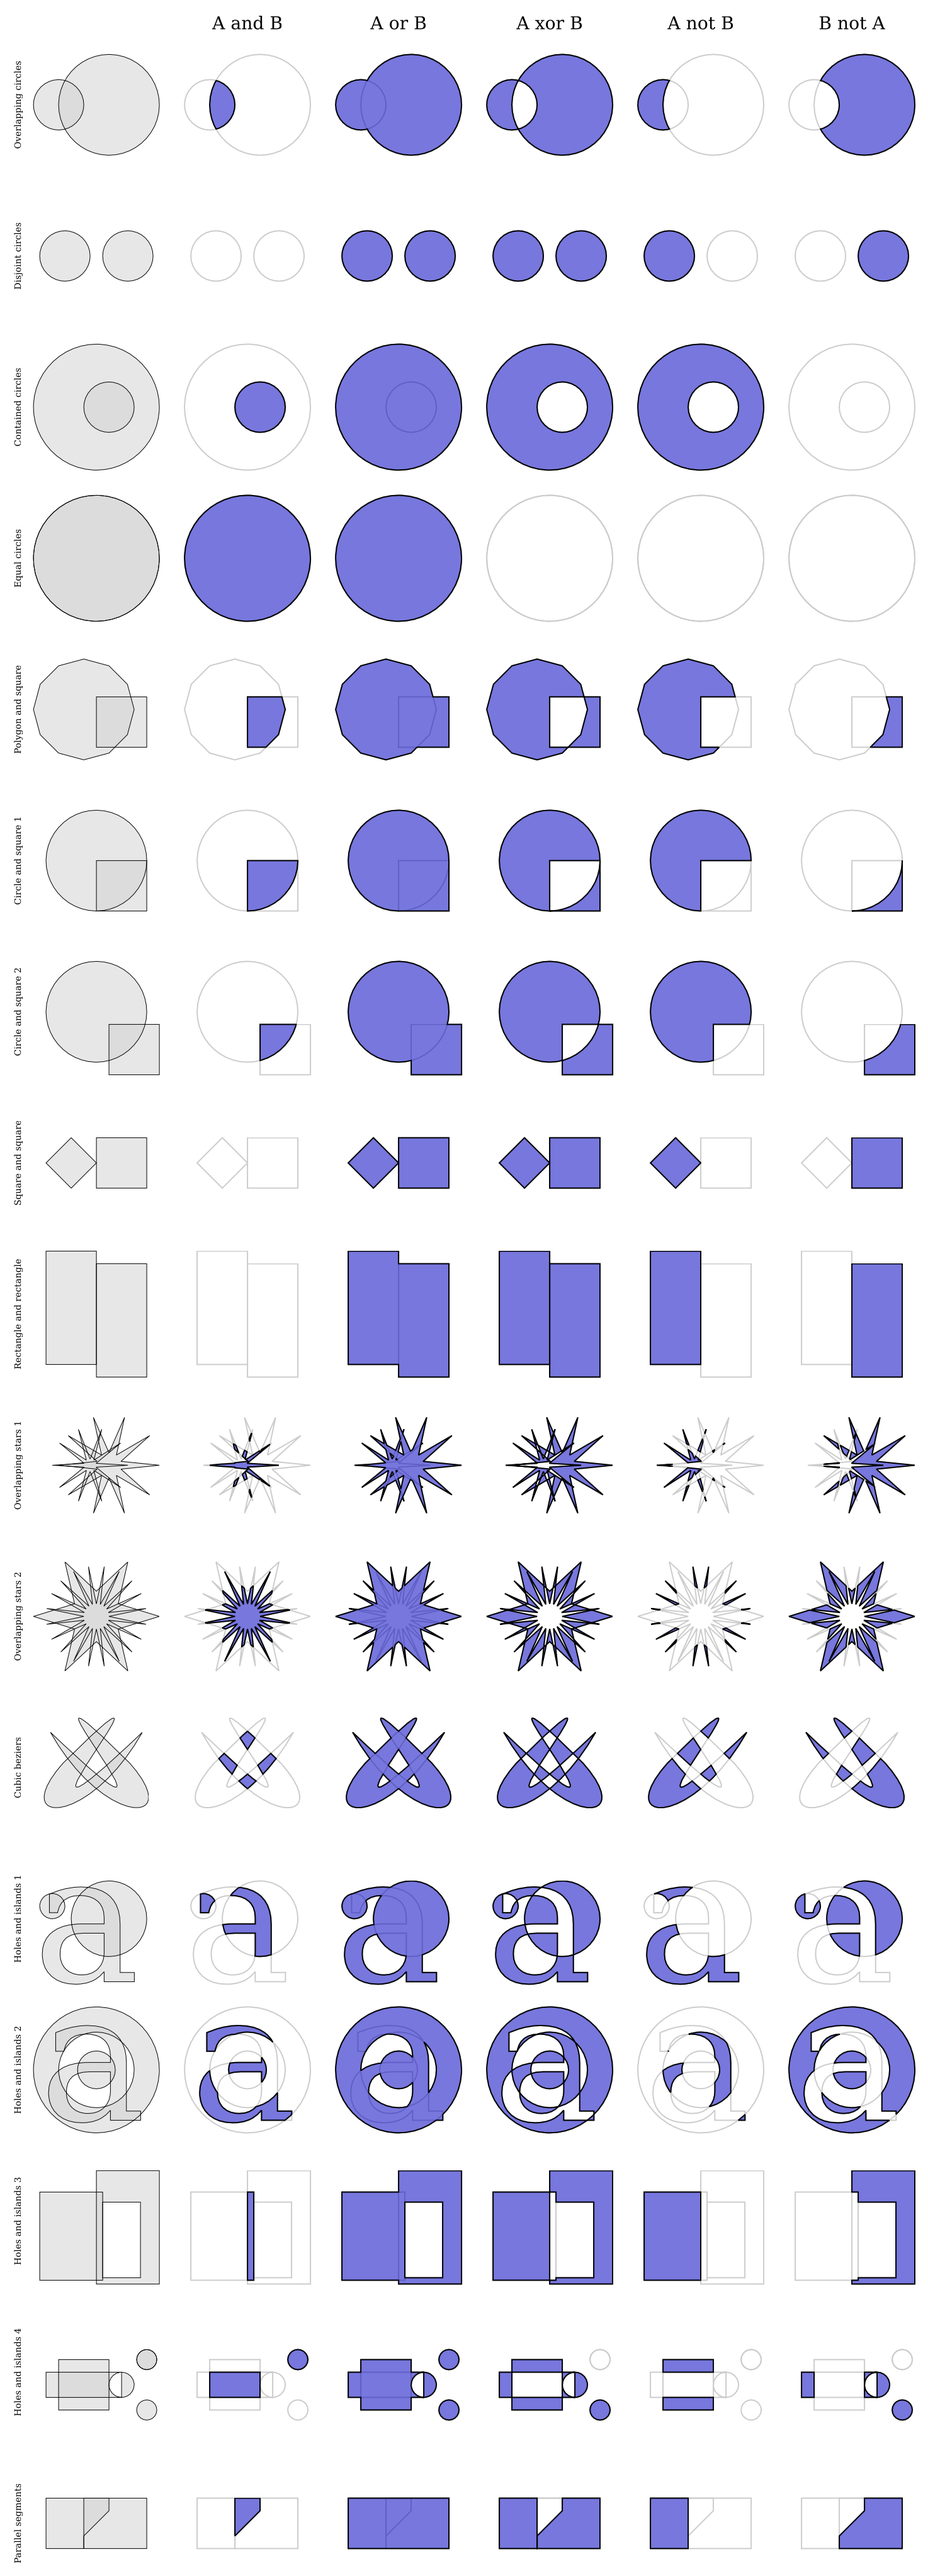
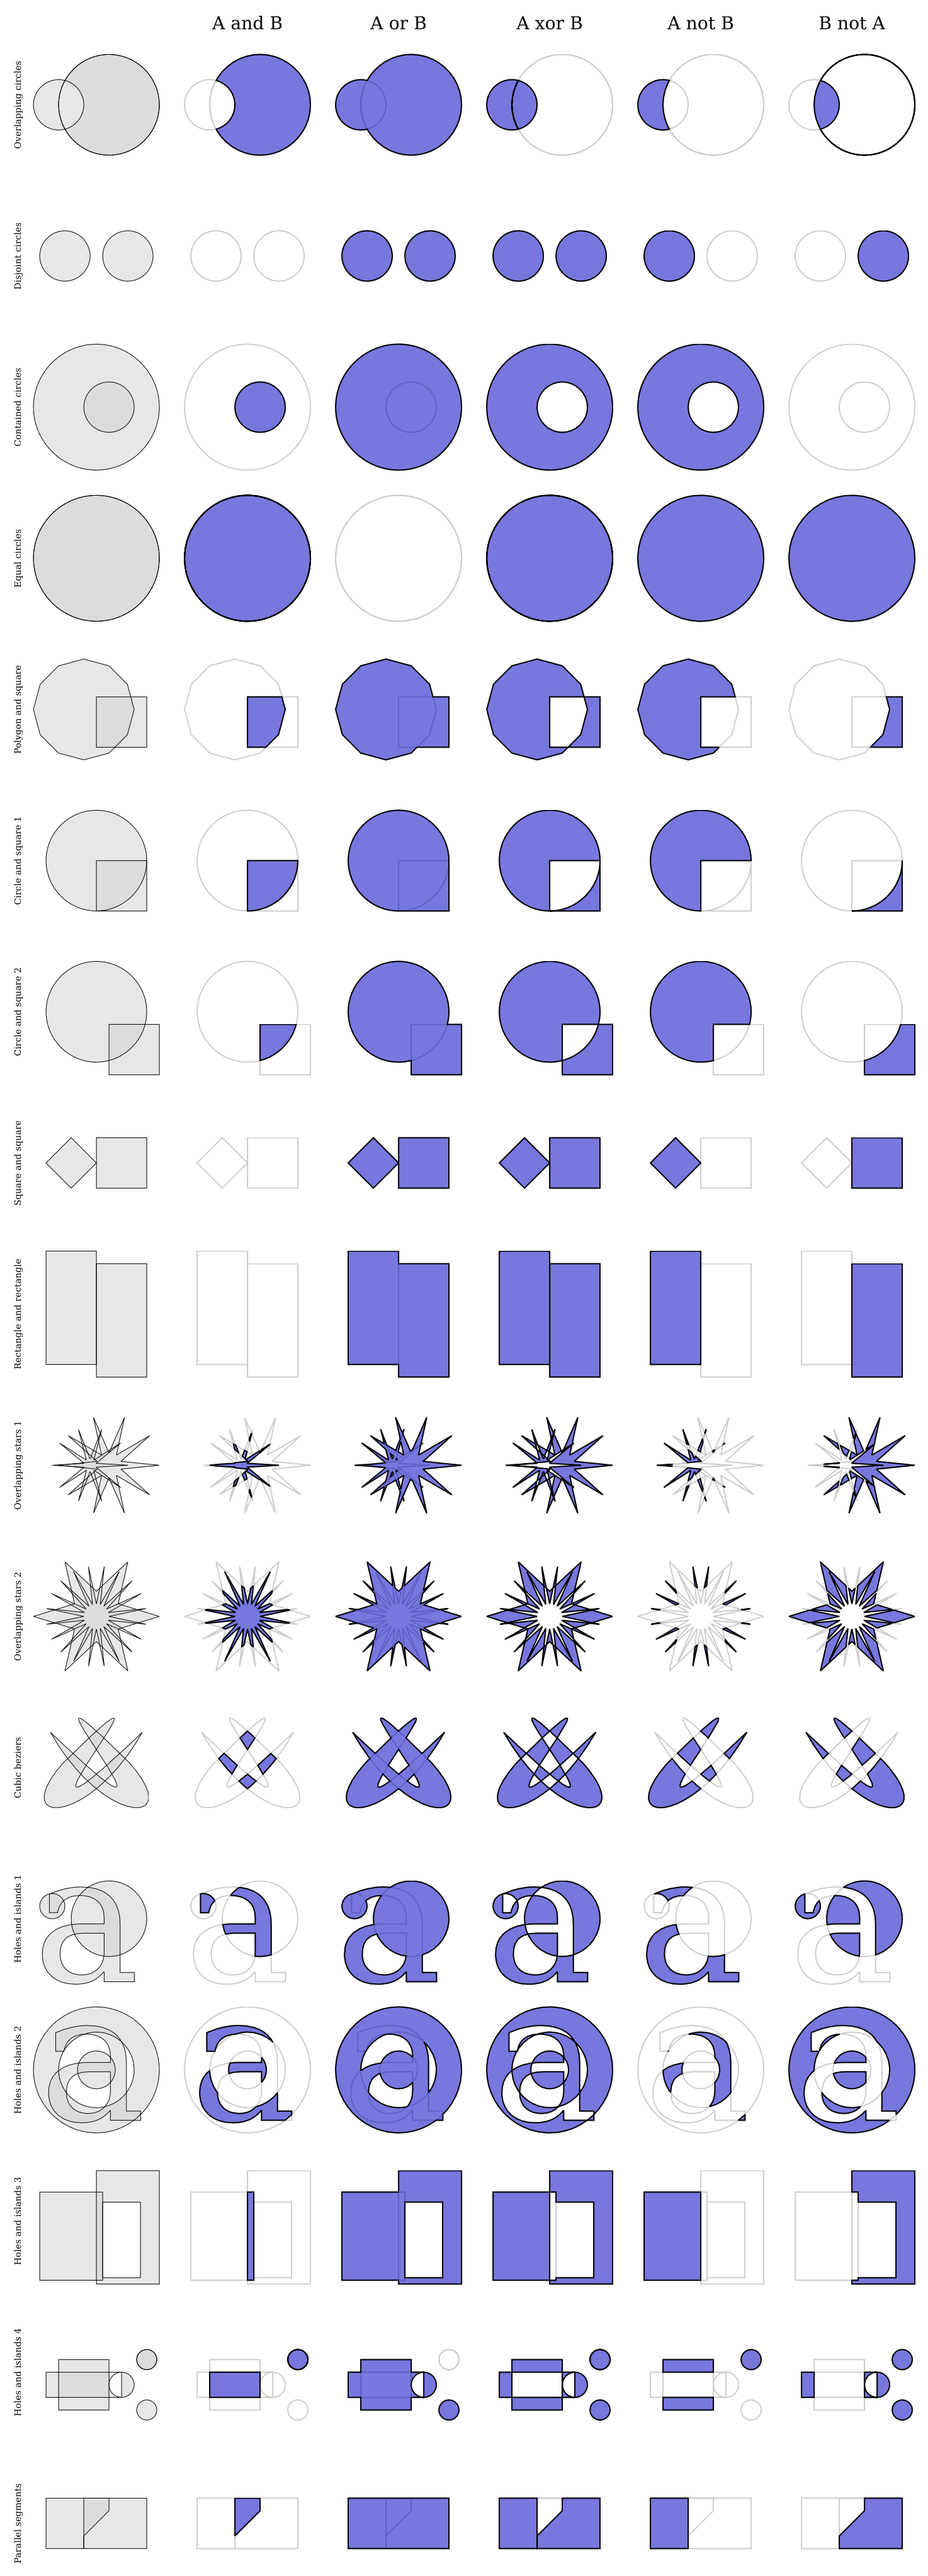
Various fixes for path boolean operations related to intersection sorting

diff --git a/path_intersection.go b/path_intersection.go
@@ -605,7 +605,7 @@ func intersectionNodes(Zs intersections, p, q *Path) []*intersectionNode {
 	}
 
 	// build index map for intersections on Q to P (zs is sorted for P)
-	idxs := Zs.argBSort() // sorted indices for intersections of q by p
+	idxs := Zs.ArgBSort() // sorted indices for intersections of q by p
 
 	// cut path segments for path Q
 	seg = 0      // index into path segments
@@ -957,7 +957,7 @@ func collisions(ps, qs []*Path, keepTangents bool) intersections {
 		}
 		segOffsetA += lenA
 	}
-	zs.Sort()
+	zs.ASort()
 	return zs
 }
 
@@ -1144,10 +1144,6 @@ func (zs intersections) String() string {
 	return sb.String()
 }
 
-func (zs intersections) Sort() {
-	sort.Stable(intersectionSort{zs, 0, 0, 0, 0})
-}
-
 func (zs intersections) SortAndWrapEnd(segOffsetA, segOffsetB, lenA, lenB int) {
 	sort.Stable(intersectionSort{zs, segOffsetA, segOffsetB, lenA, lenB})
 }
@@ -1189,10 +1185,46 @@ func (a intersectionSort) Less(i, j int) bool {
 	// sort by P and secondary to Q. Consider a point at the very end of the curve (seg=len-1, t=1) as if it were at the beginning, since it is on the starting point of the path
 	posai, posbi := a.pos(a.zs[i])
 	posaj, posbj := a.pos(a.zs[j])
-	if posai == posaj {
+	if Equal(posai, posaj) {
 		return posbi < posbj
 	}
 	return posai < posaj
+}
+
+// sort indices of intersections for curve A
+type intersectionASort struct {
+	zs intersections
+}
+
+func (a intersectionASort) Len() int {
+	return len(a.zs)
+}
+
+func (a intersectionASort) Swap(i, j int) {
+	a.zs[i], a.zs[j] = a.zs[j], a.zs[i]
+}
+
+func (a intersectionASort) Less(i, j int) bool {
+	zi, zj := a.zs[i], a.zs[j]
+	if zi.SegA == zj.SegA {
+		if Equal(zi.TA, zj.TA) {
+			// A intersects B twice at the same point, sort in case of parallel parts
+			// TODO: is this valid?? make sure that sorting is consistent to match with order when intersections are slightly separated. That is, you have outer and inner intersection pairs related to the parallel parts in between, that should be sorted as such (outer incoming, inner incoming, inner outgoing, outer outgoing) over A
+			if zi.Kind&BintoA != 0 {
+				return true
+			}
+			return false
+		}
+		return zi.TA < zj.TA
+	}
+	return zi.SegA < zj.SegA
+}
+func (zs intersections) Sort() {
+	sort.Stable(intersectionSort{zs, 0, 0, 0, 0})
+}
+
+func (zs intersections) ASort() {
+	sort.Stable(intersectionASort{zs})
 }
 
 // sort indices of intersections for curve B
@@ -1210,14 +1242,23 @@ func (a intersectionArgBSort) Swap(i, j int) {
 }
 
 func (a intersectionArgBSort) Less(i, j int) bool {
-	if a.zs[a.idx[i]].SegB == a.zs[a.idx[j]].SegB {
-		return a.zs[a.idx[i]].TB < a.zs[a.idx[j]].TB
+	zi, zj := a.zs[a.idx[i]], a.zs[a.idx[j]]
+	if zi.SegB == zj.SegB {
+		if Equal(zi.TB, zj.TB) {
+			// A intersects B twice at the same point, sort in case of parallel parts
+			// TODO: is this valid?? make sure that sorting is consistent to match with order when intersections are slightly separated. That is, you have outer and inner intersection pairs related to the parallel parts in between, that should be sorted as such (outer incoming, inner incoming, inner outgoing, outer outgoing) over B
+			if zi.Kind&BintoA == 0 {
+				return true
+			}
+			return false
+		}
+		return zi.TB < zj.TB
 	}
-	return a.zs[a.idx[i]].SegB < a.zs[a.idx[j]].SegB
+	return zi.SegB < zj.SegB
 }
 
 // get indices of sorted intersections for curve B
-func (zs intersections) argBSort() []int {
+func (zs intersections) ArgBSort() []int {
 	idx := make([]int, len(zs))
 	for i := range idx {
 		idx[i] = i

diff --git a/path_intersection_test.go b/path_intersection_test.go
@@ -609,6 +609,16 @@ func TestPathAnd(t *testing.T) {
 		{"L2 0L2 2L0 2z", "L1 0L1 1L0 1z", "M1 0L1 1L0 1L0 0z"},
 		{"L1 0L1 1L0 1z", "L2 0L2 2L0 2z", "M1 0L1 1L0 1L0 0z"},
 
+		// subpaths on A cross at the same point on B
+		{"L1 0L1 1L0 1zM2 -1L2 2L1 2L1 1.1L1.6 0.5L1 -0.1L1 -1z", "M2 -1L2 2L1 2L1 -1z", "M1 1.1L1.6 0.5L1 -0.1L1 -1L2 -1L2 2L1 2z"},
+		{"L1 0L1 1L0 1zM2 -1L2 2L1 2L1 1L1.5 0.5L1 0L1 -1z", "M2 -1L2 2L1 2L1 -1z", "M1 1L1.5 0.5L1 0L1 -1L2 -1L2 2L1 2z"},
+		{"L1 0L1 1L0 1zM2 -1L2 2L1 2L1 0.9L1.4 0.5L1 0.1L1 -1z", "M2 -1L2 2L1 2L1 -1z", "M1 1L1 0.9L1.4 0.5L1 0.1L1 -1L2 -1L2 2L1 2z"},
+		{"M1 0L2 0L2 1L1 1zM0 -1L1 -1L1 -0.1L0.4 0.5L1 1.1L1 2L0 2z", "M0 -1L1 -1L1 2L0 2z", "M1 -0.1L0.4 0.5L1 1.1L1 2L0 2L0 -1L1 -1z"},
+		{"M1 0L2 0L2 1L1 1zM0 -1L1 -1L1 0L0.5 0.5L1 1L1 2L0 2z", "M0 -1L1 -1L1 2L0 2z", "M1 0L0.5 0.5L1 1L1 2L0 2L0 -1L1 -1z"},
+		{"M1 0L2 0L2 1L1 1zM0 -1L1 -1L1 0.1L0.6 0.5L1 0.9L1 2L0 2z", "M0 -1L1 -1L1 2L0 2z", "M1 0L1 0.1L0.6 0.5L1 0.9L1 2L0 2L0 -1L1 -1z"},
+		{"L1 0L1.1 0.5L1 1L0 1zM2 -1L2 2L1 2L1 1L1.5 0.5L1 0L1 -1z", "M2 -1L2 2L1 2L1 -1z", "M1 0L1.1 0.5L1 1zM1 1L1.5 0.5L1 0L1 -1L2 -1L2 2L1 2z"},
+		{"L1 0L0.9 0.5L1 1L0 1zM2 -1L2 2L1 2L1 1L1.5 0.5L1 0L1 -1z", "M2 -1L2 2L1 2L1 -1z", "M1 1L1.5 0.5L1 0L1 -1L2 -1L2 2L1 2z"},
+
 		// subpaths
 		{"M1 0L3 0L3 4L1 4z", "M0 1L4 1L4 3L0 3zM2 2L2 5L5 5L5 2z", "M3 1L3 2L2 2L2 3L1 3L1 1zM3 3L3 4L2 4L2 3z"},                                      // different winding
 		{"L2 0L2 1L0 1zM0 2L2 2L2 3L0 3z", "M1 0L3 0L3 1L1 1zM1 2L3 2L3 3L1 3z", "M2 0L2 1L1 1L1 0zM2 2L2 3L1 3L1 2z"},                                 // two overlapping
@@ -810,6 +820,14 @@ func TestPathNot(t *testing.T) {
 		{"L1 0L1 1L0 1z", "L2 0L2 1L0 1z", ""},
 		{"L3 0L3 1L0 1z", "M1 0L2 0L2 1L1 1z", "M1 0L1 0L1 1L0 1L0 0zM2 0L3 0L3 1L2 1z"},
 		{"L2 0L2 2L0 2z", "L1 0L1 1L0 1z", "M1 0L2 0L2 2L0 2L0 1L1 1z"},
+
+		// subpaths on A cross at the same point on B
+		{"L1 0L1 1L0 1zM2 -1L2 2L1 2L1 1.1L1.6 0.5L1 -0.1L1 -1z", "M2 -1L2 2L1 2L1 -1z", "M1 1L0 1L0 0L1 0z"},
+		{"L1 0L1 1L0 1zM2 -1L2 2L1 2L1 1L1.5 0.5L1 0L1 -1z", "M2 -1L2 2L1 2L1 -1z", "M1 1L0 1L0 0L1 0z"},
+		{"L1 0L1 1L0 1zM2 -1L2 2L1 2L1 0.9L1.4 0.5L1 0.1L1 -1z", "M2 -1L2 2L1 2L1 -1z", "M1 0L1 1L0 1L0 0z"},
+		{"M2 -1L2 2L1 2L1 -1z", "L1 0L1 1L0 1zM2 -1L2 2L1 2L1 1.1L1.6 0.5L1 -0.1L1 -1z", "M1 1.1L1 -0.1L1.6 0.5z"},
+		{"M2 -1L2 2L1 2L1 -1z", "L1 0L1 1L0 1zM2 -1L2 2L1 2L1 1L1.5 0.5L1 0L1 -1z", "M1 1L1 0L1.5 0.5z"},
+		{"M2 -1L2 2L1 2L1 -1z", "L1 0L1 1L0 1zM2 -1L2 2L1 2L1 0.9L1.4 0.5L1 0.1L1 -1z", "M1 0.1L1.4 0.5L1 0.9z"},
 
 		// subpaths
 		{"M1 0L3 0L3 4L1 4z", "M0 1L4 1L4 3L0 3zM2 2L2 5L5 5L5 2z", "M3 1L1 1L1 0L3 0zM3 2L3 3L2 3L2 4L1 4L1 3L2 3L2 2z"},                                               // different winding

diff --git a/resources/docs/boolean/main.go b/resources/docs/boolean/main.go
@@ -24,7 +24,7 @@ func main() {
 	ctx.DrawText(56.0, -2.0, canvas.NewTextLine(face, "A not B", canvas.Center))
 	ctx.DrawText(68.0, -2.0, canvas.NewTextLine(face, "B not A", canvas.Center))
 
-	draw(ctx, -13.0, "Overlapping circles", canvas.Circle(2.0).Translate(2.0, 5.0), canvas.Circle(4.0).Translate(6.0, 5.0))
+	draw(ctx, -13.0, "Overlapping circles", canvas.Circle(2.0).Reverse().Translate(2.0, 5.0).Append(canvas.Circle(4.0).Translate(6.0, 5.0)), canvas.Circle(4.0).Translate(6.0, 5.0))
 	draw(ctx, -25.0, "Disjoint circles", canvas.Circle(2.0).Translate(2.5, 5.0), canvas.Circle(2.0).Translate(7.5, 5.0))
 	draw(ctx, -37.0, "Contained circles", canvas.Circle(5.0).Translate(5.0, 5.0), canvas.Circle(2.0).Translate(6.0, 5.0))
 	draw(ctx, -49.0, "Equal circles", canvas.Circle(5.0).Translate(5.0, 5.0), canvas.Circle(5.0).Translate(5.0, 5.0))
@@ -89,9 +89,6 @@ func main() {
 }
 
 func draw(ctx *canvas.Context, y float64, title string, p, q *canvas.Path) {
-	p = p.Flatten()
-	q = q.Flatten()
-
 	face := font.Face(2.0, canvas.Black, canvas.FontRegular, canvas.FontNormal)
 	ctx.Translate(2.0, y+5.0)
 	ctx.Rotate(90.0)
